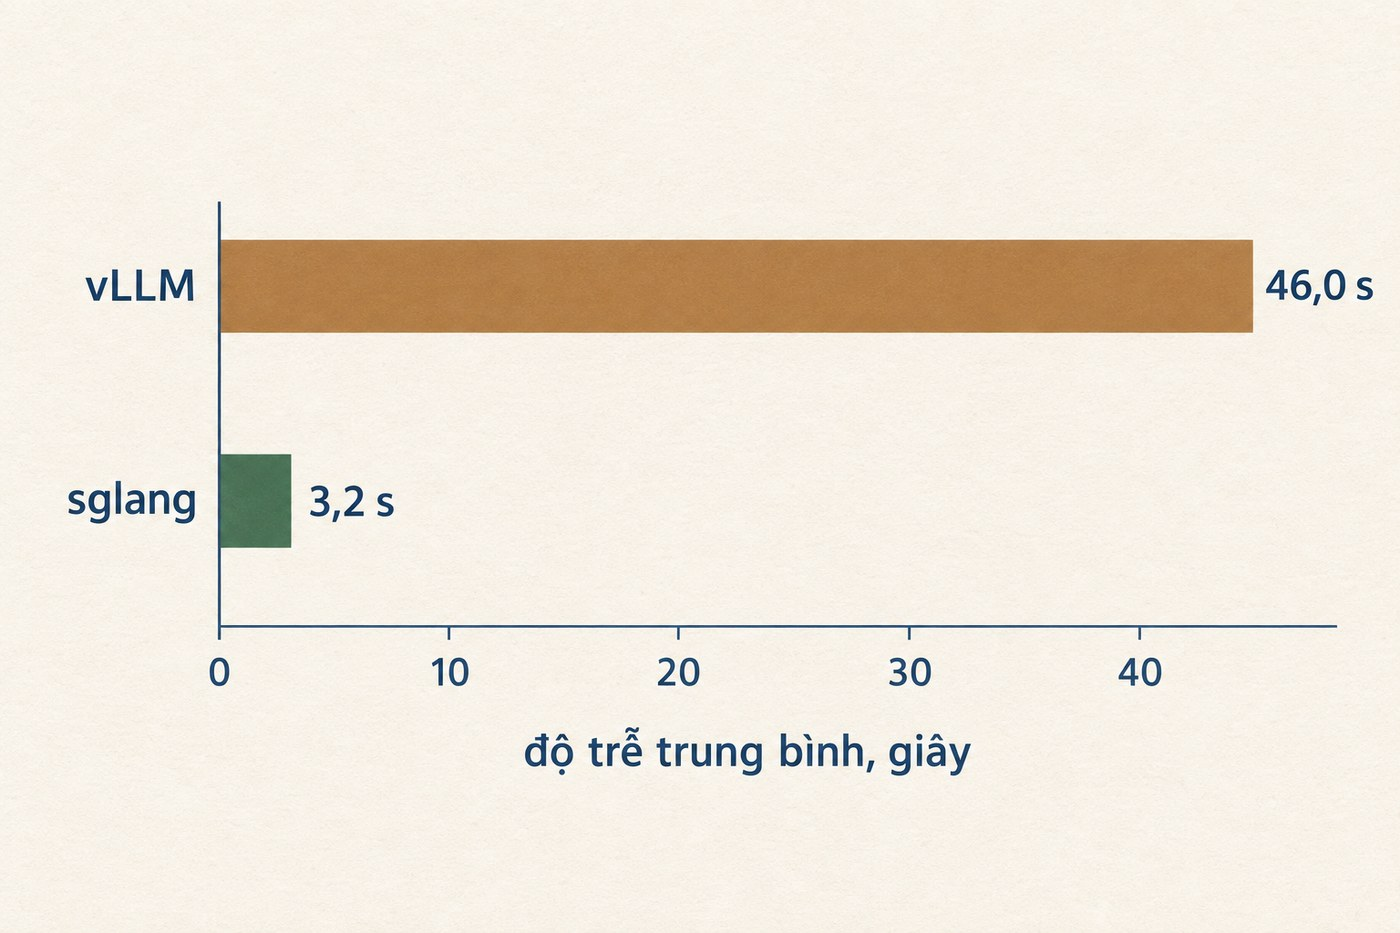
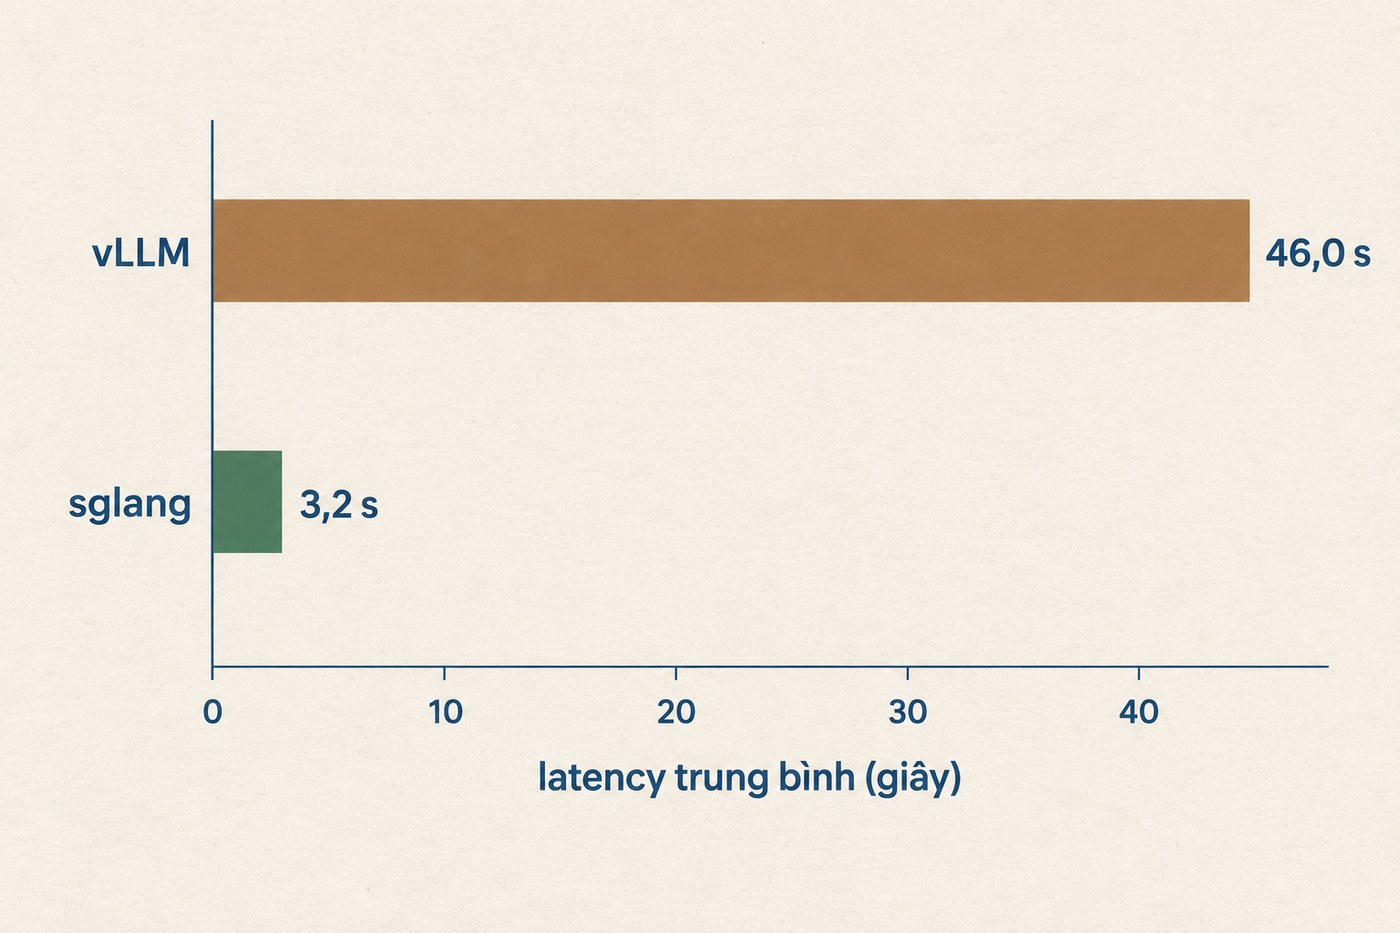
Giọng showcase theo mẫu ra mắt Fable, giữ ngôi tôi
Nói vì sao làm chứ không chỉ nói làm gì. Thêm một đoạn xưng 'bạn' cho đội
đang gọi vào model, và đóng bài bằng câu hướng về việc người đọc sắp làm.
Bỏ nốt chữ dịch thừa: độ trễ -> latency (cả trong nhãn biểu đồ).

diff --git a/posts/nhanh-bay-lan-khong-them-gpu/index.html b/posts/nhanh-bay-lan-khong-them-gpu/index.html
@@ -23,7 +23,7 @@
   <p class="eyebrow">Hạ tầng phục vụ mô hình</p>
   <h1>Đổi engine, không thêm GPU</h1>
   <p class="byline"><span>MISA AI Platform</span><span>14 tháng 9, 2026</span><span>Cụm GPU nội bộ</span></p>
-  <p class="lead">Đầu tháng 9, <code>misa-ai-1.1</code> được chuyển sang một engine mới. Thời gian chờ tới token đầu tiên từ 0,879 giây xuống 0,098 giây, và mỗi pod phục vụ gấp đôi số request. Vẫn bộ trọng số đó, vẫn từng ấy GPU, chất lượng output không đổi. Cuối bài là mô hình thứ hai, <code>misa-ai-2.0</code>, chuyển engine trong cùng đợt kèm một backend attention mới.</p>
+  <p class="lead">Đầu tháng 9, tôi chuyển <code>misa-ai-1.1</code> sang một engine mới. Thời gian chờ tới token đầu tiên từ 0,879 giây xuống 0,098 giây, và mỗi pod phục vụ gấp đôi số request. Vẫn bộ trọng số đó, vẫn từng ấy GPU, chất lượng output không đổi. Cùng đợt, <code>misa-ai-2.0</code> cũng đổi engine kèm một backend attention mới.</p>
 </header>
 <figure>
   <img src="img/hero.jpg" alt="Minh hoạ trừu tượng: nhiều dòng token mảnh chảy ngang, bị các khối dày chặn lại từng đợt">
@@ -35,15 +35,15 @@
 
 <h2>Một lần đổi engine, không đổi gì khác</h2>
 
-<p><code>misa-ai-1.1</code> chạy production trên cụm nội bộ, khoảng một triệu request mỗi ngày. Về kỹ thuật: MoE 35 tỷ tham số, kiến trúc hybrid linear-attention, trọng số FP8.</p>
+<p><code>misa-ai-1.1</code> phục vụ khoảng một triệu request mỗi ngày trên cụm GPU nội bộ. Đây là model MoE 35 tỷ tham số, kiến trúc hybrid linear-attention, trọng số FP8.</p>
 
-<p>Đầu tháng 9 tôi chuyển nó sang một bản SGLang mới hơn kèm cấu hình attention khác. Mọi thứ còn lại giữ nguyên: trọng số, context length, memory fraction, chunked prefill size, phần GPU được cấp, và cả hai bản đều không bật speculative decoding. Vậy nên chênh lệch đo được là do engine, không phải do phần cứng hay model.</p>
+<p>Khi nâng cấp, tôi giữ nguyên mọi thứ trừ engine: trọng số, context length, memory fraction, chunked prefill size, phần GPU được cấp, và cả hai bản đều không bật speculative decoding. Tôi muốn biết chắc phần nhanh lên đến từ đâu, nên chỉ đổi đúng một biến.</p>
 
 <h2>Kết quả trên traffic thật</h2>
 
 <p>Prefill là lúc engine đọc hết input, và đây là quãng chờ trước khi có token đầu tiên. Decode là lúc model sinh câu trả lời, mỗi lần một token. Hai giai đoạn giành nhau cùng một GPU, nên engine quyết định cả thời gian chờ lẫn tốc độ sinh token.</p>
 
-<p>Bản mới nhanh hơn ở cả hai, chênh lệch lớn nhất nằm ở prefill.</p>
+<p>Bản mới nhanh hơn ở cả hai. Chênh lệch lớn nhất nằm ở prefill, và đó cũng là phần người dùng cảm thấy rõ nhất.</p>
 
 </div>
 
@@ -69,17 +69,19 @@
 
 <p>Request hoàn tất sớm thì giải phóng GPU sớm, nên cùng một pod phục vụ được 194 nghìn request mỗi ngày thay vì 88 nghìn.</p>
 
+<p>Nếu sản phẩm của bạn đang gọi <code>misa-ai-1.1</code>, đây là phần bạn thấy ngay mà không phải sửa gì: câu trả lời bắt đầu hiện gần như tức thì thay vì sau gần một giây, và cùng lượng GPU đó chịu được gấp đôi lượng người dùng.</p>
+
 <h2>Đã sửa gì trên misa-ai-1.1</h2>
 
-<p>Weights, tokenizer và chat template giữ nguyên. Các service gọi sang nó cũng không sửa dòng code nào. Bốn thay đổi, tất cả nằm ở tầng engine.</p>
+<p>Bốn thay đổi, tất cả nằm ở tầng engine. Tôi không đụng vào weights, tokenizer hay chat template, và các service gọi sang nó cũng không sửa dòng code nào.</p>
 
-<p><b>Một, nâng container image</b>, cách bản cũ khoảng hai tháng phát triển upstream.</p>
+<p><b>Một, nâng container image.</b> Bản mới cách bản cũ khoảng hai tháng phát triển upstream.</p>
 
 <p><b>Hai, cho lớp linear-attention một kernel đọc prompt viết riêng.</b> Model là kiến trúc hybrid, phần lớn layer dùng linear attention, nhưng cấu hình cũ không khai báo backend cho nhóm này nên chúng chạy bằng kernel chung, vốn viết cho kiểu attention khác. Kernel mới viết đúng cho loại layer đó, và với prompt rất dài thì được phép bỏ qua phần không cần đọc lại.</p>
 
 <p><b>Ba, chia lại bộ nhớ GPU.</b> Model hybrid này cần hai vùng nhớ co giãn theo hai thứ khác hẳn nhau.</p>
 
-<p>Các layer full-attention phải nhớ nguyên văn: mỗi token đọc vào thì cất thêm một cặp khoá và giá trị của token đó, nên vùng này dày lên theo từng token, khoảng 20 KB mỗi token. Đây là KV cache.</p>
+<p>Các layer full-attention phải nhớ nguyên văn: mỗi token đọc vào thì cất thêm cặp K và V của token đó, nên vùng này dày lên theo từng token, khoảng 20 KB mỗi token. Đây là KV cache.</p>
 
 <p>Các layer linear-attention thì không giữ lịch sử. Mỗi layer mang theo một ma trận cố định, và mỗi token mới đi qua chỉ cập nhật vào ma trận đó chứ không ghi thêm dòng nào. Đọc 10 nghìn hay 100 nghìn token thì ma trận vẫn đúng chừng ấy ô. Với model này là 30 layer như vậy, cộng lại khoảng 63 MB cho mỗi request đang chạy, và con số đó không đổi dù prompt dài hay ngắn.</p>
 
@@ -100,7 +102,7 @@
 
 <h2>Tốc độ đến từ đâu</h2>
 
-<p>Nhóm flag sparse prefill là ứng viên rõ ràng nhất: kernel viết cho context rất dài, bật lên thì prefill nhanh, câu chuyện khép kín. Nhưng nó chỉ chạy khi KV cache của một request vượt 95.000 token.</p>
+<p>Nhóm flag sparse prefill là ứng viên rõ ràng nhất: kernel viết cho context rất dài, bật lên thì prefill nhanh, câu chuyện khép kín. Trước khi ghi công, tôi đi kiểm điều kiện để nó thực sự chạy. Nó chỉ chạy khi KV cache của một request vượt 95.000 token.</p>
 
 </div>
 
@@ -117,7 +119,7 @@
 
 <h2>Cùng đợt đó, misa-ai-2.0</h2>
 
-<p><code>misa-ai-2.0</code> là model đa phương thức 26 tỷ tham số, chuyển sang sglang trong cùng đợt. Lần này phần việc nặng hơn: trước khi đổi được backend attention, phải sửa chính engine.</p>
+<p><code>misa-ai-2.0</code> là model đa phương thức 26 tỷ tham số, tôi chuyển sang sglang trong cùng đợt. Lần này phần việc nặng hơn: trước khi đổi được backend attention, phải sửa chính engine.</p>
 
 <p>sglang có bốn backend attention, và trên H200 thì Gemma 4 chỉ dùng được cái chậm nhất. Lý do nằm ở cấu trúc model: 25 trong 30 layer là sliding-window với head_dim 256, còn 5 layer full-attention chạy ở head_dim 512 vì gộp K với V làm một tensor. Hai backend nhanh nhất chặn cứng head_dim ở 256 nên từ chối thẳng. Backend còn lại nhận được 512 nhưng chưa bao giờ nạp nổi trong image đang dùng.</p>
 
@@ -131,7 +133,7 @@
 <div class="col">
 
 
-<p>Hai bản vá gỡ chỗ đó. Bản thứ nhất sửa kernel chậm: nó đặt cứng số khối K/V được chở song song với việc tính là một, tức chở một khối, chờ về, tính xong rồi mới chở khối sau, và suốt lúc chờ thì phần tính của GPU ngồi không. Khối ở head_dim 512 nặng gấp đôi nên khoảng ngồi không cũng dài gấp đôi. Bản vá cho kernel chọn số khối theo head_dim thay vì đặt cứng.</p>
+<p>Tôi viết hai bản vá để gỡ chỗ đó. Bản thứ nhất sửa kernel chậm: nó đặt cứng số khối K/V được chở song song với việc tính là một, tức chở một khối, chờ về, tính xong rồi mới chở khối sau, và suốt lúc chờ thì phần tính của GPU ngồi không. Khối ở head_dim 512 nặng gấp đôi nên khoảng ngồi không cũng dài gấp đôi. Bản vá cho kernel chọn số khối theo head_dim thay vì đặt cứng.</p>
 
 </div>
 
@@ -147,15 +149,15 @@
 
 <p>Sau hai bản vá, model chạy được trên backend nhanh, và CompactAttention dựng tiếp trên nền đó. Thay vì quét toàn bộ prefix ở mỗi bước, CompactAttention chia prefix thành từng khối rồi chỉ giữ lại các khối quan trọng nhất, và chỉ bật khi prefix vượt 8.192 token. Kết quả trực tiếp: đọc 152.000 token trong 9,6 giây.</p>
 
-<p>Không phải thấy nhanh hơn là chuyển ngay. Cuối tháng 8, một lượt đo riêng trên 1×H200 với prompt 27,6 nghìn token không dùng lại cache cho thấy sglang nhanh hơn vLLM 1,15 lần, thêm ba bản vá kernel thì lên 1,27 lần. Chưa đủ để đánh đổi một lần chuyển production.</p>
+<p>Thấy nhanh hơn chưa đủ để chuyển. Cuối tháng 8, một lượt đo riêng trên 1×H200 với prompt 27,6 nghìn token không dùng lại cache cho thấy sglang nhanh hơn vLLM 1,15 lần, thêm ba bản vá kernel thì lên 1,27 lần. Chừng đó không đáng để đánh đổi một lần chuyển production, nên tôi giữ nguyên hiện trạng và đi tìm phần còn thiếu.</p>
 
-<p>Phép thử quyết định là chạy lại đúng chuỗi request của sự cố ngày 4 tháng 9, nhưng ép nhanh gấp 2,5 lần so với lúc nó xảy ra thật.</p>
+<p>Phép thử quyết định là chạy lại đúng chuỗi request của sự cố ngày 4 tháng 9, ép nhanh gấp 2,5 lần so với lúc nó xảy ra thật. Tôi muốn biết bản mới có chịu được đúng cái đã làm sập bản cũ hay không.</p>
 
 </div>
 
 <figure>
-  <img src="img/ch-replay.jpg" alt="Biểu đồ cột ngang: vLLM 46,0 giây, sglang 3,2 giây độ trễ trung bình trên cùng một chuỗi request">
-  <figcaption><b>Chạy lại chuỗi request của sự cố ngày 4 tháng 9, ép nhanh gấp 2,5 lần.</b> Cùng phần cứng, cùng chuỗi request, chỉ khác engine và backend attention. Độ trễ trung bình 46,0 giây xuống 3,2 giây. Không chỉ nhanh hơn, bản mới còn xử lý thêm 24% request mỗi phút.</figcaption>
+  <img src="img/ch-replay.jpg" alt="Biểu đồ cột ngang: vLLM 46,0 giây, sglang 3,2 giây latency trung bình trên cùng một chuỗi request">
+  <figcaption><b>Chạy lại chuỗi request của sự cố ngày 4 tháng 9, ép nhanh gấp 2,5 lần.</b> Cùng phần cứng, cùng chuỗi request, chỉ khác engine và backend attention. Latency trung bình 46,0 giây xuống 3,2 giây. Không chỉ nhanh hơn, bản mới còn xử lý thêm 24% request mỗi phút.</figcaption>
 </figure>
 
 <div class="col">
@@ -168,13 +170,15 @@
 
 <p>Một lần thay image, thêm vài dòng cấu hình, quãng chờ token đầu tiên ngắn đi chín lần và mỗi pod phục vụ gấp đôi số request. Toàn bộ số liệu lấy từ traffic thật trong sáu ngày, và đã chia lại theo đúng số pod mà mỗi bản đang chạy.</p>
 
+<p>Phần lớn cụm GPU ở đâu cũng đang chạy dưới sức của nó, và thứ chặn lại thường không phải phần cứng. Hạ tầng giờ chịu được gấp đôi tải trên cùng số GPU, nên hãy đẩy sản phẩm của bạn tới giới hạn mới đó và cho tôi biết chỗ nào còn nghẽn.</p>
+
 </div>
 
 <div class="col notes">
   <h2>Ghi chú</h2>
   <ol>
     <li>Con số bảy lần trộn hai loại thống kê (trung bình uncached token chia cho TTFT p50) nên chỉ nên hiểu là khoảng chừng đó, không phải một hệ số chính xác. Chiều thì chắc chắn: 0,879 so với 0,098 giây, trong khi input bản mới chỉ ngắn hơn 25%.</li>
-    <li>Con số 2,8 xuống 1,2 giây tính từ TTFT p50 cộng 300 lần ITL median ở dải concurrency 1 tới 2, không phải đo thẳng một request cụ thể. Hai workload phục vụ client khác nhau nên không so thẳng độ trễ đầu cuối được.</li>
+    <li>Con số 2,8 xuống 1,2 giây tính từ TTFT p50 cộng 300 lần ITL median ở dải concurrency 1 tới 2, không phải đo thẳng một request cụ thể. Hai workload phục vụ client khác nhau nên không so thẳng latency đầu cuối được.</li>
     <li>Hình minh họa và biểu đồ trong bài dựng bằng gpt-image-2.5. Mọi con số in trên biểu đồ đã đối chiếu lại với số liệu gốc.</li>
     <li>Bài viết không liệt kê chi tiết flag và giá trị tuning của cấu hình serving.</li>
   </ol>
